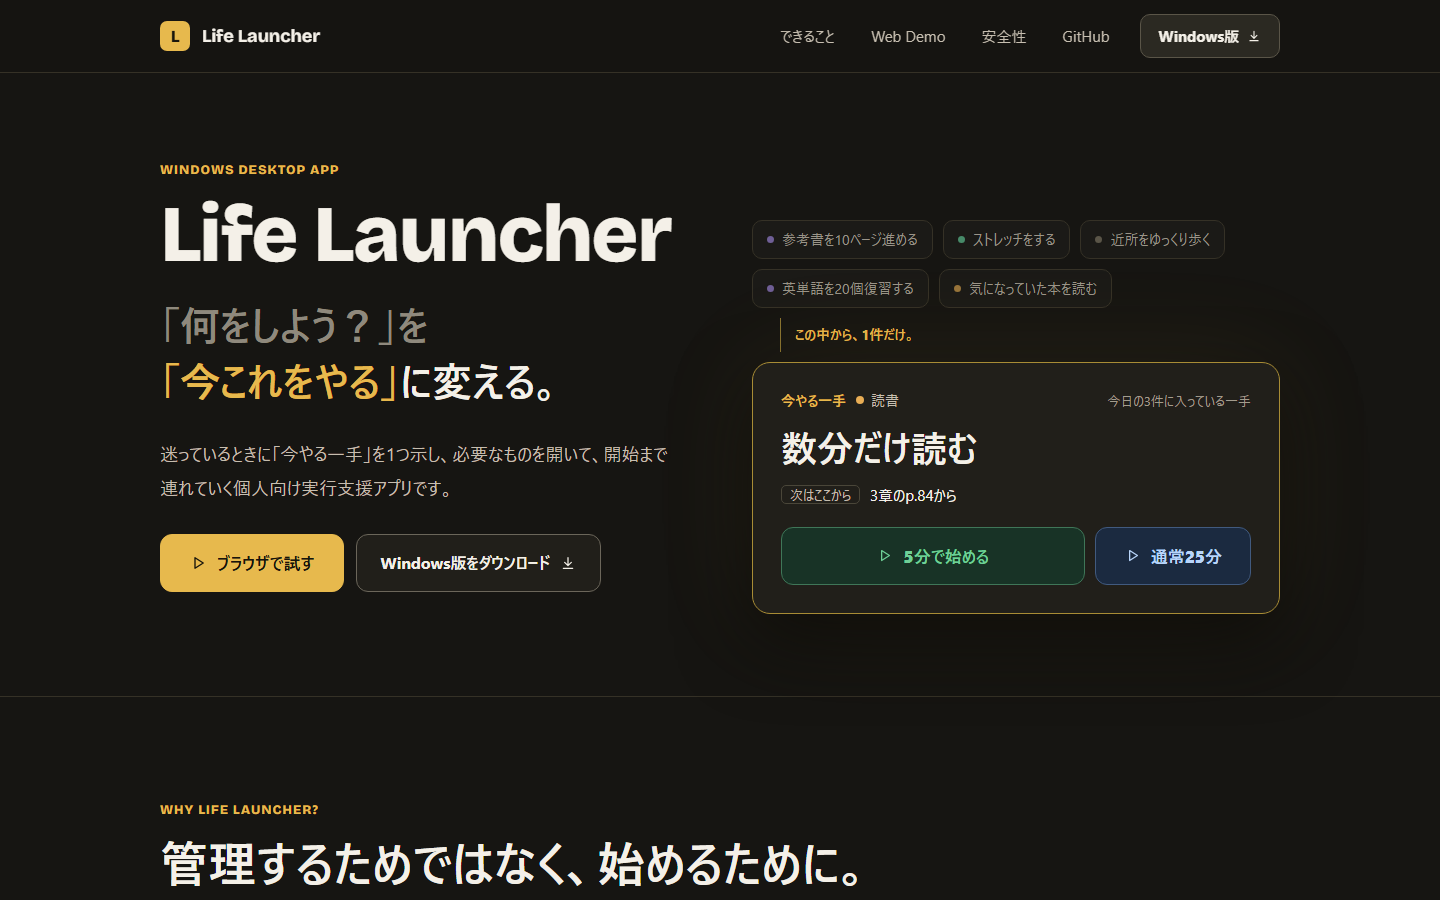
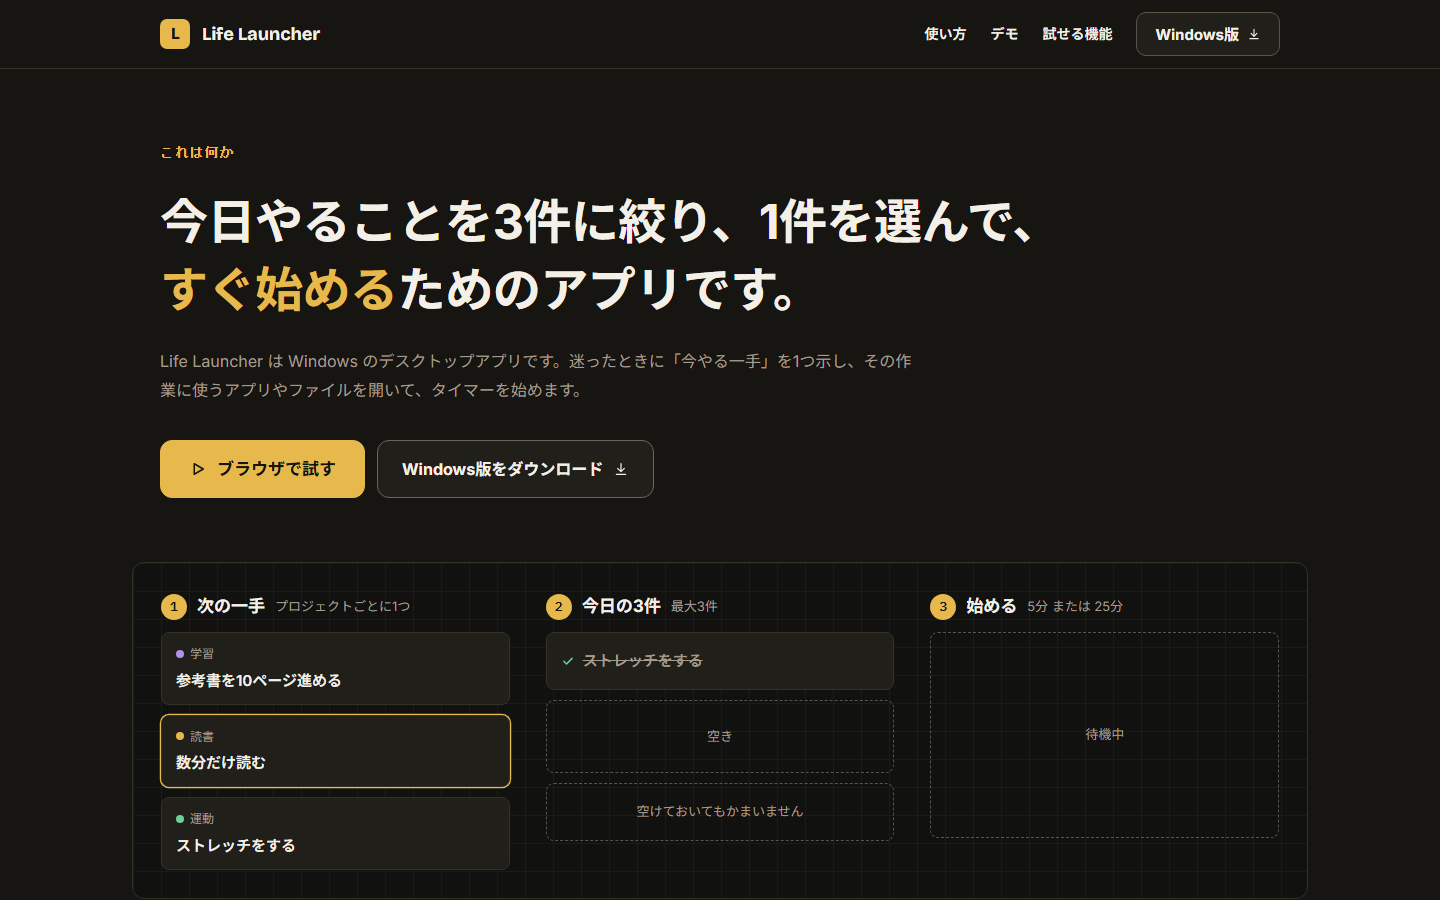
docs: replace the Web Demo README image with the W21 landing page
Recaptured from the public site at 1440 x 900 on its first screen after the W21 release.

diff --git a/docs/screenshots/README.md b/docs/screenshots/README.md
@@ -16,8 +16,8 @@ npm.cmd run screenshot:public
 | `weekly-planning.png` | Plan this week tab of Records, 1366 x 768 | PASS - synthetic projects, records, and completed items only |
 | `demo-start.gif` | Starting the current step for 5 minutes and leaving a “Resume here” note, 960 x 570 | PASS - synthetic public fixture only; assembled by the lead from Playwright frames |
 | `contact-sheet.png` | Combined Windows product review sheet | PASS - contains only the three Windows product images above |
-| `web-demo.png` | Web Demo landing page (W17 update), 1440 x 900 | PASS - synthetic public landing page only |
+| `web-demo.png` | Web Demo landing page (W21 update), first screen of the public site, 1440 x 900 | PASS - synthetic public landing page only |
 
 The Windows screenshot test fixes the date and time, installs a Tauri API mock before navigation, disables animation and caret rendering, uses a dedicated local Vite port, and never reads real application data. The weekly planning image is captured with reduced motion so the counters show their final values.
 
-The Windows images were regenerated for the v1.1 README update. `web-demo.png` retains the previously published landing-page image from `docs/screenshots/web-demo.png` in [Takuyakou/life-launcher-web](https://github.com/Takuyakou/life-launcher-web), rather than a dashboard crop. That asset was produced and reviewed through the Web Demo repository's Playwright Visual QA workflow.
+The Windows images were regenerated for the v1.1 README update. `web-demo.png` shows the Web Demo landing page rather than a dashboard crop. It was recaptured for W21 from the public site (https://life-launcher-web.takuyakou.workers.dev/) at 1440 x 900 with the page left on its first screen, after the W21 landing page and demo rebuild in [Takuyakou/life-launcher-web](https://github.com/Takuyakou/life-launcher-web) was released.
